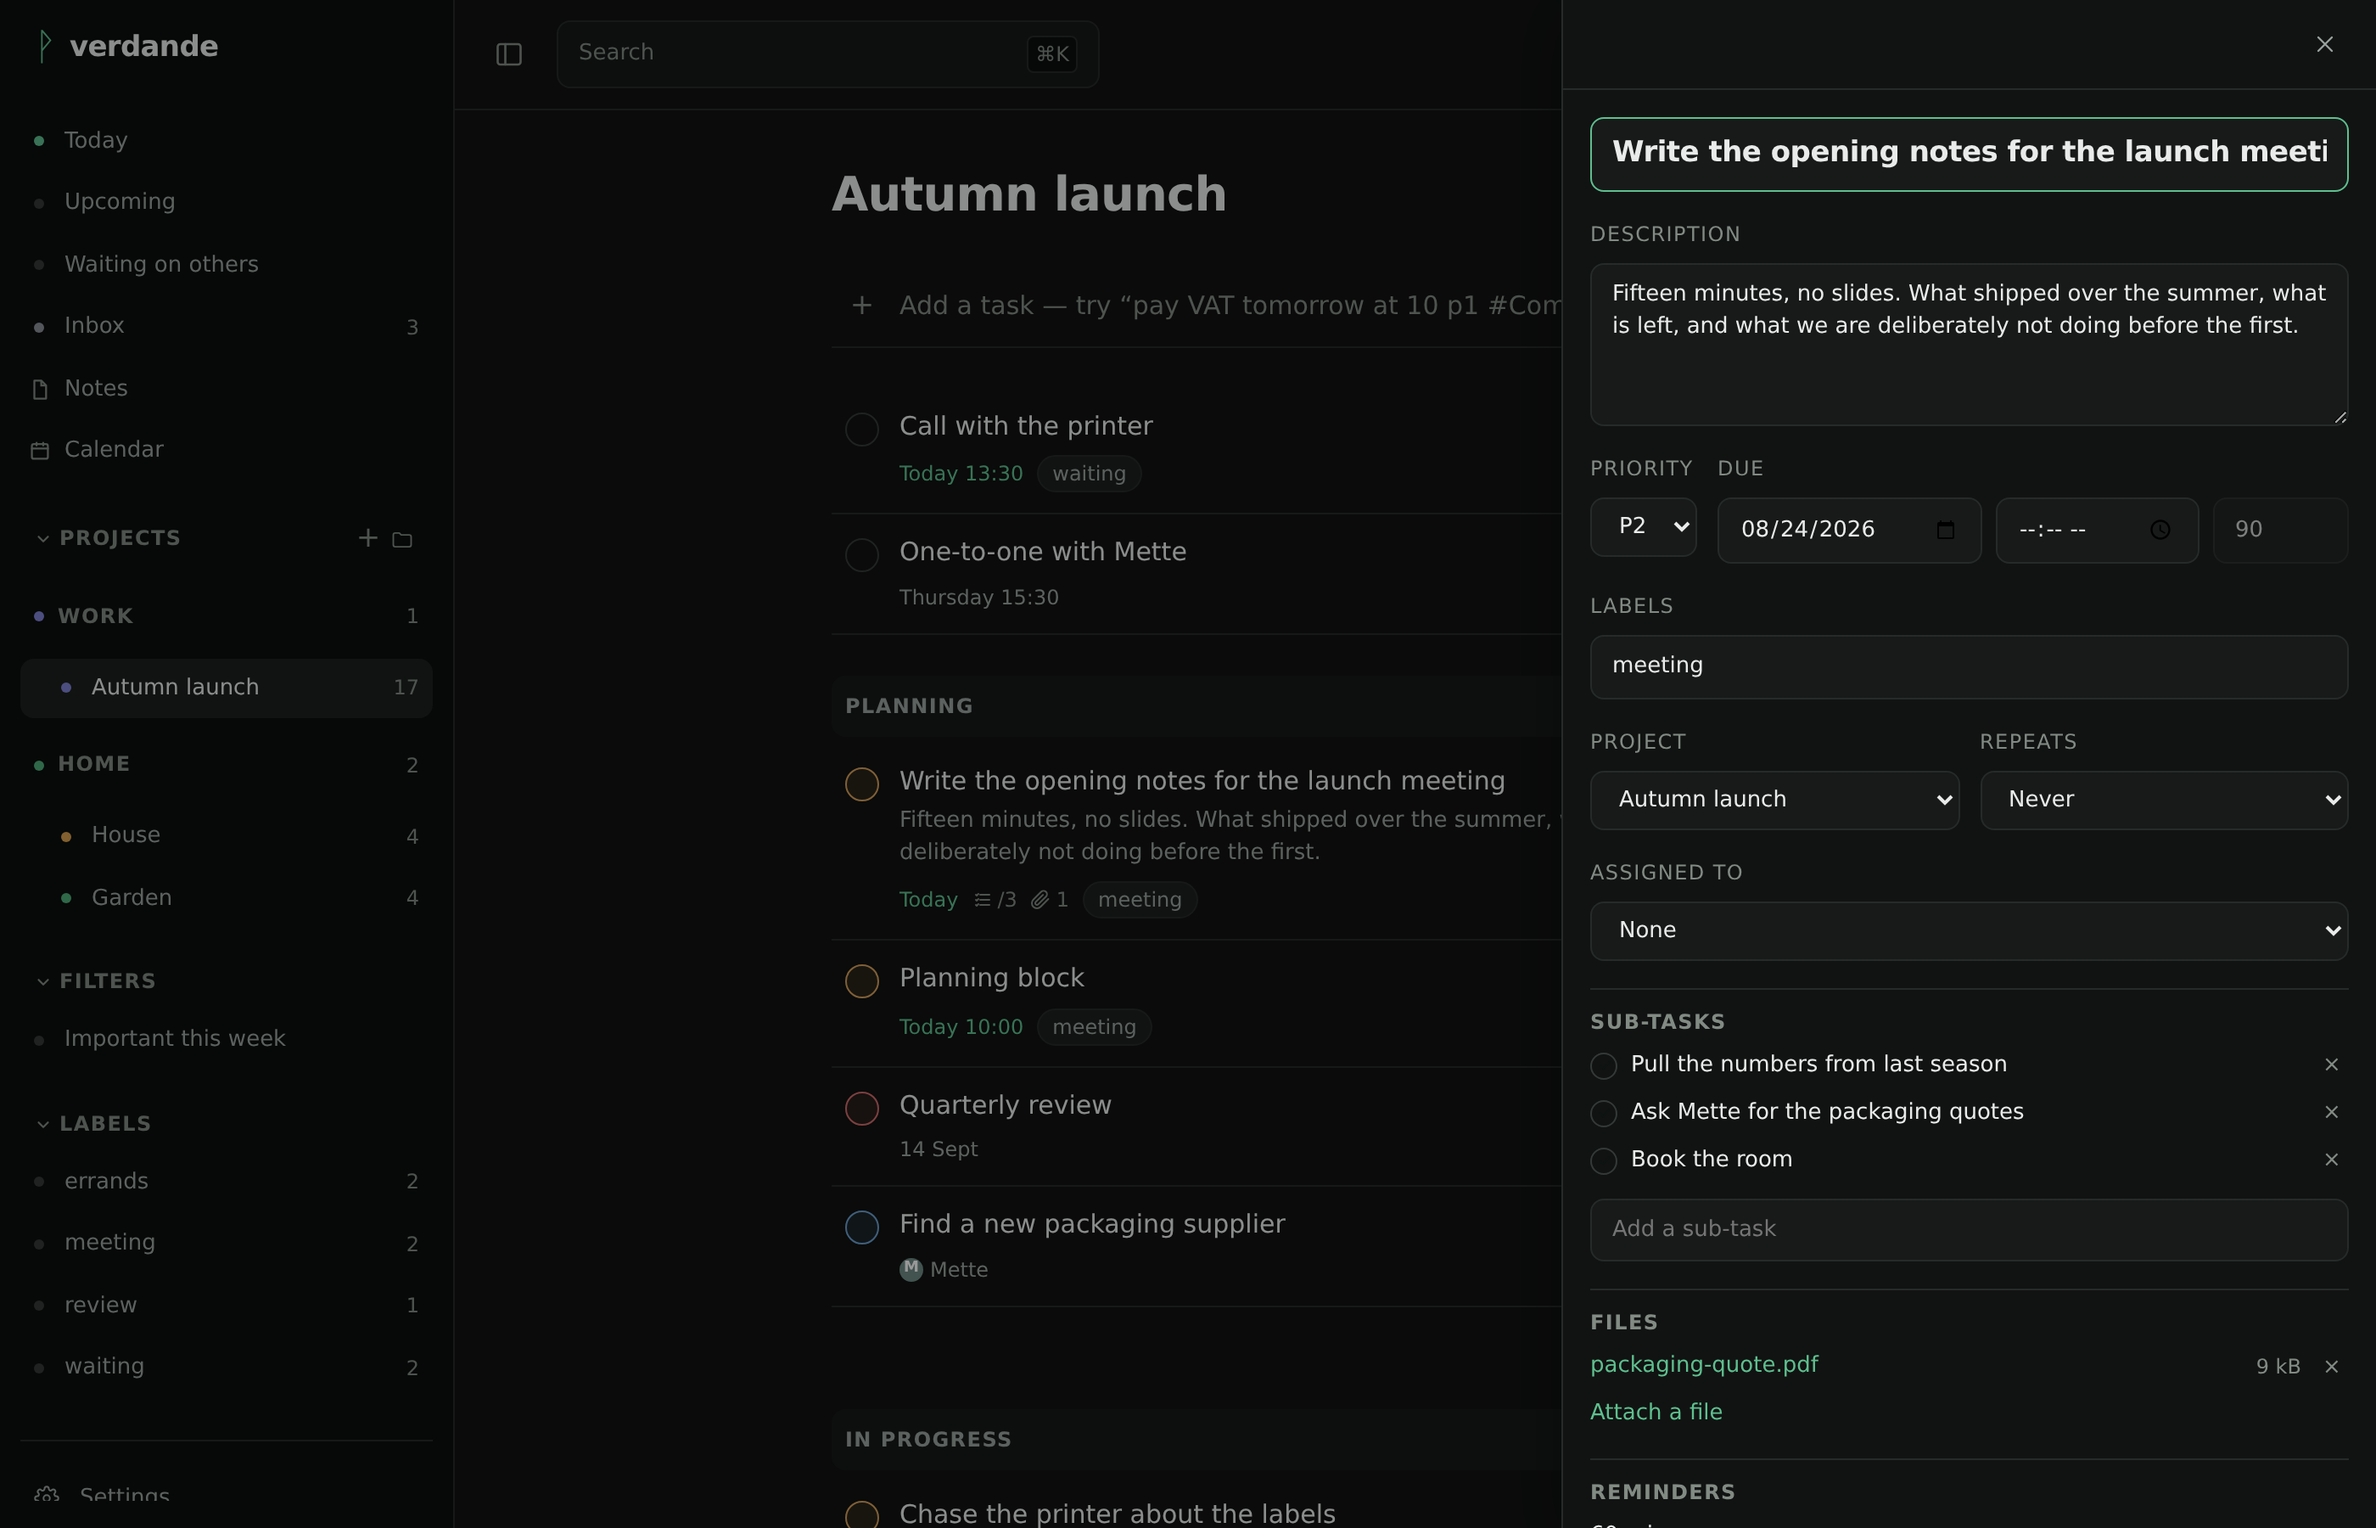
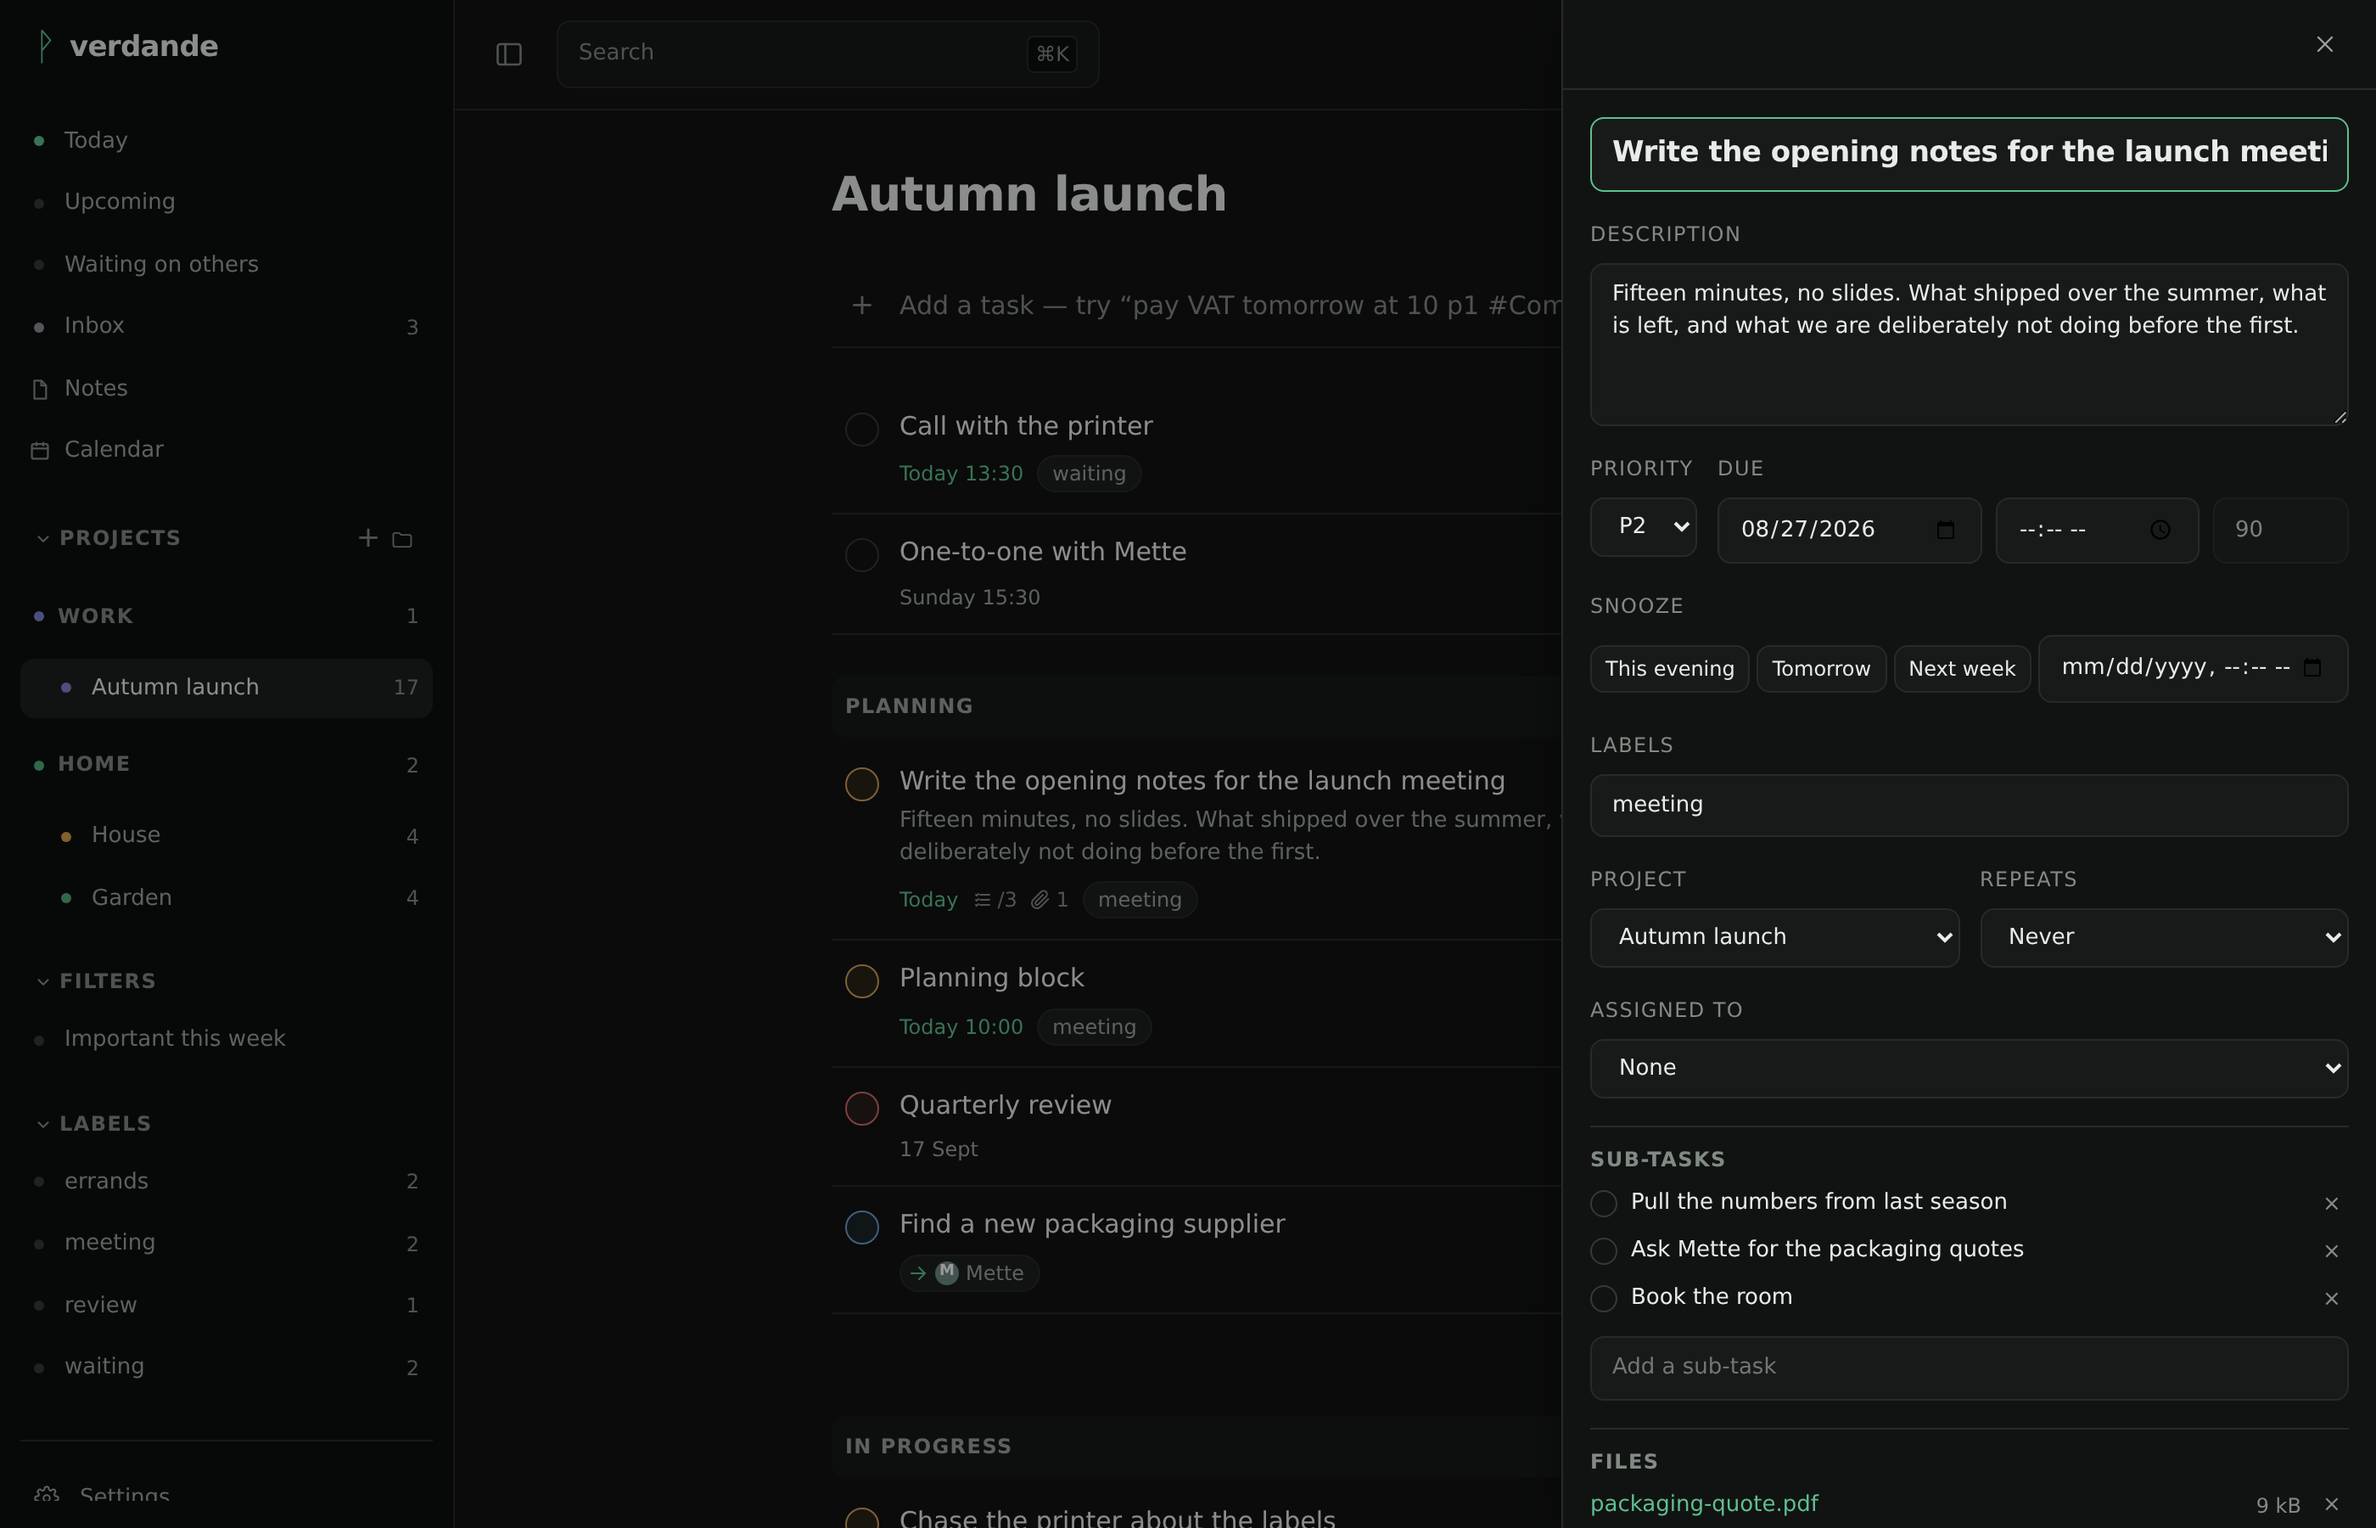
docs(site): new features, refreshed screenshots and text
The landing page and the docs now show and describe what has landed since
the last site update:

- the delegated-task marker (an arrow to whoever has it) — visible now in
  the board, list and Waiting-on-others shots
- snooze — one seeded task is parked so the board shows a card greyed at
  the foot of its column
- Web Push reminders to iPhone and Mac, dated tasks in a subscribed
  calendar, task durations on the calendar, and per-person note sharing

Screenshots regenerated against the current UI (PNG for docs/README, WebP
for the landing page, from the one capture). "Lately" brought current.

diff --git a/site/index.html b/site/index.html
@@ -949,12 +949,12 @@
 					<figure class="shot">
 						<img
 							src="screenshots/board.webp"
-							alt="A project in board view: one column per section, with task cards showing due dates, labels and repetition."
+							alt="A project in board view: one column per section, with task cards showing due dates, labels, an arrow to whoever a task is delegated to, and a snoozed card greyed at the foot of its column."
 							width="1400"
 							height="900"
 							loading="lazy"
 						/>
-						<figcaption>Board view — one column per section.</figcaption>
+						<figcaption>Board view — one column per section. A delegated card carries an arrow to whoever has it; a snoozed one greys at the foot.</figcaption>
 					</figure>
 					<figure class="shot">
 						<img
@@ -1009,12 +1009,12 @@
 					<figure class="shot">
 						<img
 							src="screenshots/delegated.webp"
-							alt="Waiting on others: tasks that have been handed to somebody else, grouped under the person who has them."
+							alt="Waiting on others: tasks that have been handed to somebody else, grouped under the person who has them, each row carrying an arrow to that person."
 							width="1400"
 							height="900"
 							loading="lazy"
 						/>
-						<figcaption>Waiting on others — grouped by who has it.</figcaption>
+						<figcaption>Waiting on others — grouped by who has it, each marked with an arrow to them.</figcaption>
 					</figure>
 					<figure class="shot">
 						<img
@@ -1070,8 +1070,8 @@
 						<h3>Repeats, and says so in words</h3>
 						<p>
 							Recurring tasks are RRULE underneath and "every other Tuesday" on the
-							screen. Reminders are absolute or relative, and go out to the devices
-							you have allowed them on.
+							screen. Reminders are absolute or relative, and go out as Web Push to
+							an iPhone or a Mac you have allowed them on.
 						</p>
 					</div>
 					<div class="cell">
@@ -1104,8 +1104,17 @@
 						<h3>Waiting on others</h3>
 						<p>
 							What you have handed to somebody else, on its own page, grouped under
-							the person who has it. The thing a shared list stops being able to tell
-							you the moment it is shared.
+							the person who has it — and marked where you meet it too, with an arrow
+							out of your hands, so a list reads at a glance as which tasks are yours
+							and which you are waiting on.
+						</p>
+					</div>
+					<div class="cell">
+						<h3>Snooze it out of the way</h3>
+						<p>
+							Park a task to this evening, tomorrow, next week, or a moment you pick.
+							It greys and sinks to the bottom of the list until then, and comes back
+							by itself — without touching when it is actually due.
 						</p>
 					</div>
 				</div>
@@ -1226,6 +1235,23 @@
 				</p>
 				<ul class="lately">
 					<li>
+						<span class="ver">0.41</span>
+						A task you have delegated is marked where you meet it, not only on the
+						"Waiting on others" page. A task can be snoozed to the bottom of the list
+						until a moment you choose, and comes back by itself.
+					</li>
+					<li>
+						<span class="ver">0.41</span>
+						Web Push reminders reach an iPhone and a Mac again, and every dated task
+						now shows up in a calendar you have subscribed to — not only the timed ones.
+					</li>
+					<li>
+						<span class="ver">0.41</span>
+						The calendar draws each task to its length: drag the foot to resize, or the
+						body to move it. A single note can be shared with one person, and a
+						<code>[[note]]</code> is a link you follow inline.
+					</li>
+					<li>
 						<span class="ver">0.34</span>
 						Sections can be dragged into the order the work actually happens in. The
 						sidebar keeps its head still while the projects scroll.
@@ -1235,21 +1261,6 @@
 						Notes grew an archive, selection of many at once, pictures you can paste
 						or drag in, a source view, and a copy button on code blocks. Search
 						stopped answering by date and started answering by relevance.
-					</li>
-					<li>
-						<span class="ver">0.32</span>
-						A calendar of its own as a menu item, with a read-only Google calendar
-						that can be laid over it.
-					</li>
-					<li>
-						<span class="ver">0.31</span>
-						Mailboxes over IMAP, so flagging a mail in iCloud or Fastmail makes a
-						task — not only Gmail.
-					</li>
-					<li>
-						<span class="ver">0.30</span>
-						An installation count that says exactly what it sends, and can be turned
-						off in one click.
 					</li>
 				</ul>
 			</section>

diff --git a/web/scripts/generate-screenshots.js b/web/scripts/generate-screenshots.js
@@ -483,6 +483,17 @@ async function seed({ colleague, noteTitle }) {
 	const made = {};
 	for (const task of tasks) made[task.content] = await api('/tasks', task);
 
+	// One task snoozed, so the board and the list show a card parked at the bottom
+	// of its section — greyed, with a "snoozed until" mark — set aside rather than
+	// forgotten, and without touching when it is due.
+	const snoozeUntil = (() => {
+		const d = new Date();
+		d.setDate(d.getDate() + 2);
+		d.setHours(9, 0, 0, 0);
+		return d.toISOString();
+	})();
+	await api(`/tasks/${made['Write the job advert'].id}/snooze`, { until: snoozeUntil });
+
 	// A saved filter, because the sidebar shows them and an empty heading reads as
 	// a feature that does not work.
 	await api('/filters', { name: 'Important this week', query: 'p1 & 7 days' });

diff --git a/docs/index.md b/docs/index.md
@@ -22,15 +22,22 @@ forward mail to, and an MCP endpoint so Claude can work your task list directly.
   Firma, labelled regnskab. Danish and English, mixed freely in one line.
 - **Projects, sections, sub-tasks, labels, [saved filters](filters.md).** List,
   board and calendar views, and foldable groups over the projects in the sidebar.
-- **Notes, beside the work.** Rich text to write in, Markdown on disk. A note is
-  shared by filing it in a project; `#project` and `[[another note]]` are links,
-  and a task shows what has been written about it.
+  The calendar draws each task to its length — drag the foot to resize, the body
+  to move it.
+- **Notes, beside the work.** Rich text to write in, Markdown on disk. Share a
+  single note with a person, or file it in a project; `#project` and
+  `[[another note]]` are links, and a task shows what has been written about it.
+- **Delegate, and snooze.** Hand a task to somebody and it is marked with an
+  arrow to them, gathered on a *Waiting on others* page. Snooze one to park it,
+  greyed, at the foot of the list until a moment you pick — without touching when
+  it is due.
 - **Drag where it means something** — reorder a list or a board, file a project
   under a group, drop a task on another project, or drop it on another day.
 - **Sharing** with owner, editor and viewer roles. Anyone outside your instance
   joins through an invite link.
 - **Live sync** — a change made by somebody else appears without a refresh.
-- **Repeating tasks** as RRULE, reminders, comments and attachments.
+- **Repeating tasks** as RRULE, comments and attachments, and reminders that go
+  out as Web Push to an iPhone or a Mac.
 - **[Calendar](caldav.md), [mail](mail.md) and [Claude](mcp.md)** connected over
   open standards rather than private formats.
 
@@ -48,7 +55,9 @@ columns.*
 
 ![Waiting on others](screenshots/delegated.png)
 
-*What you have handed to somebody else, grouped by whoever has it.*
+*What you have handed to somebody else, grouped by whoever has it — and each row
+marked with an arrow to them, so a delegated task reads as delegated wherever you
+meet it.*
 
 ![Settings, integrations](screenshots/settings.png)
 
